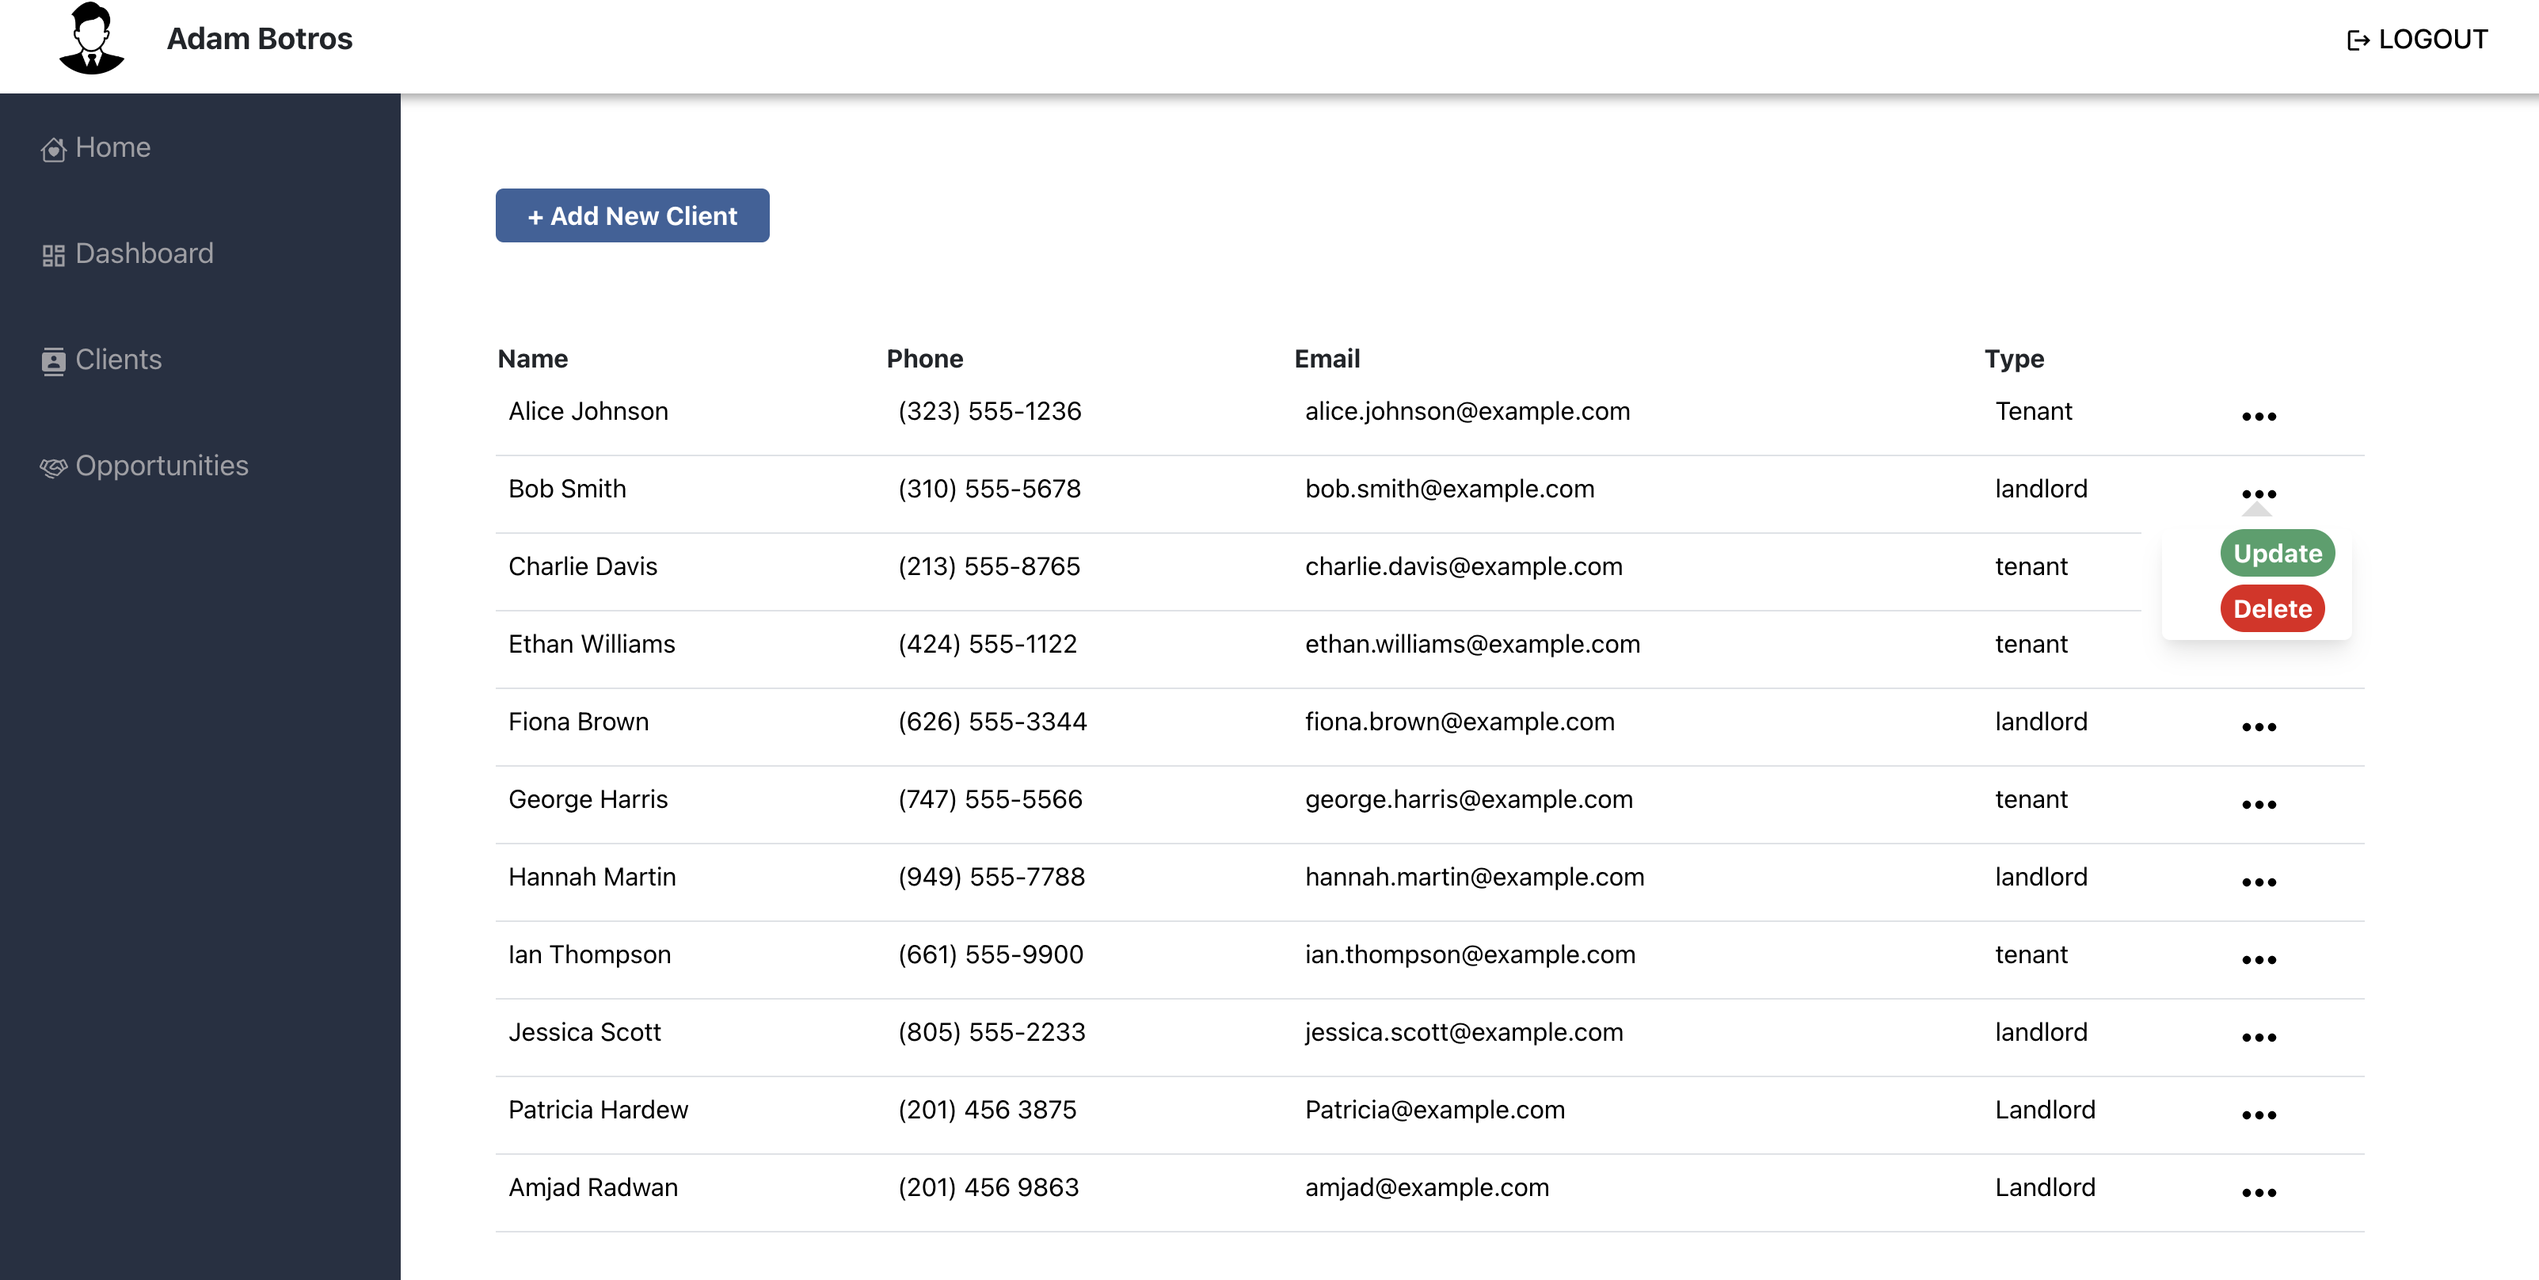
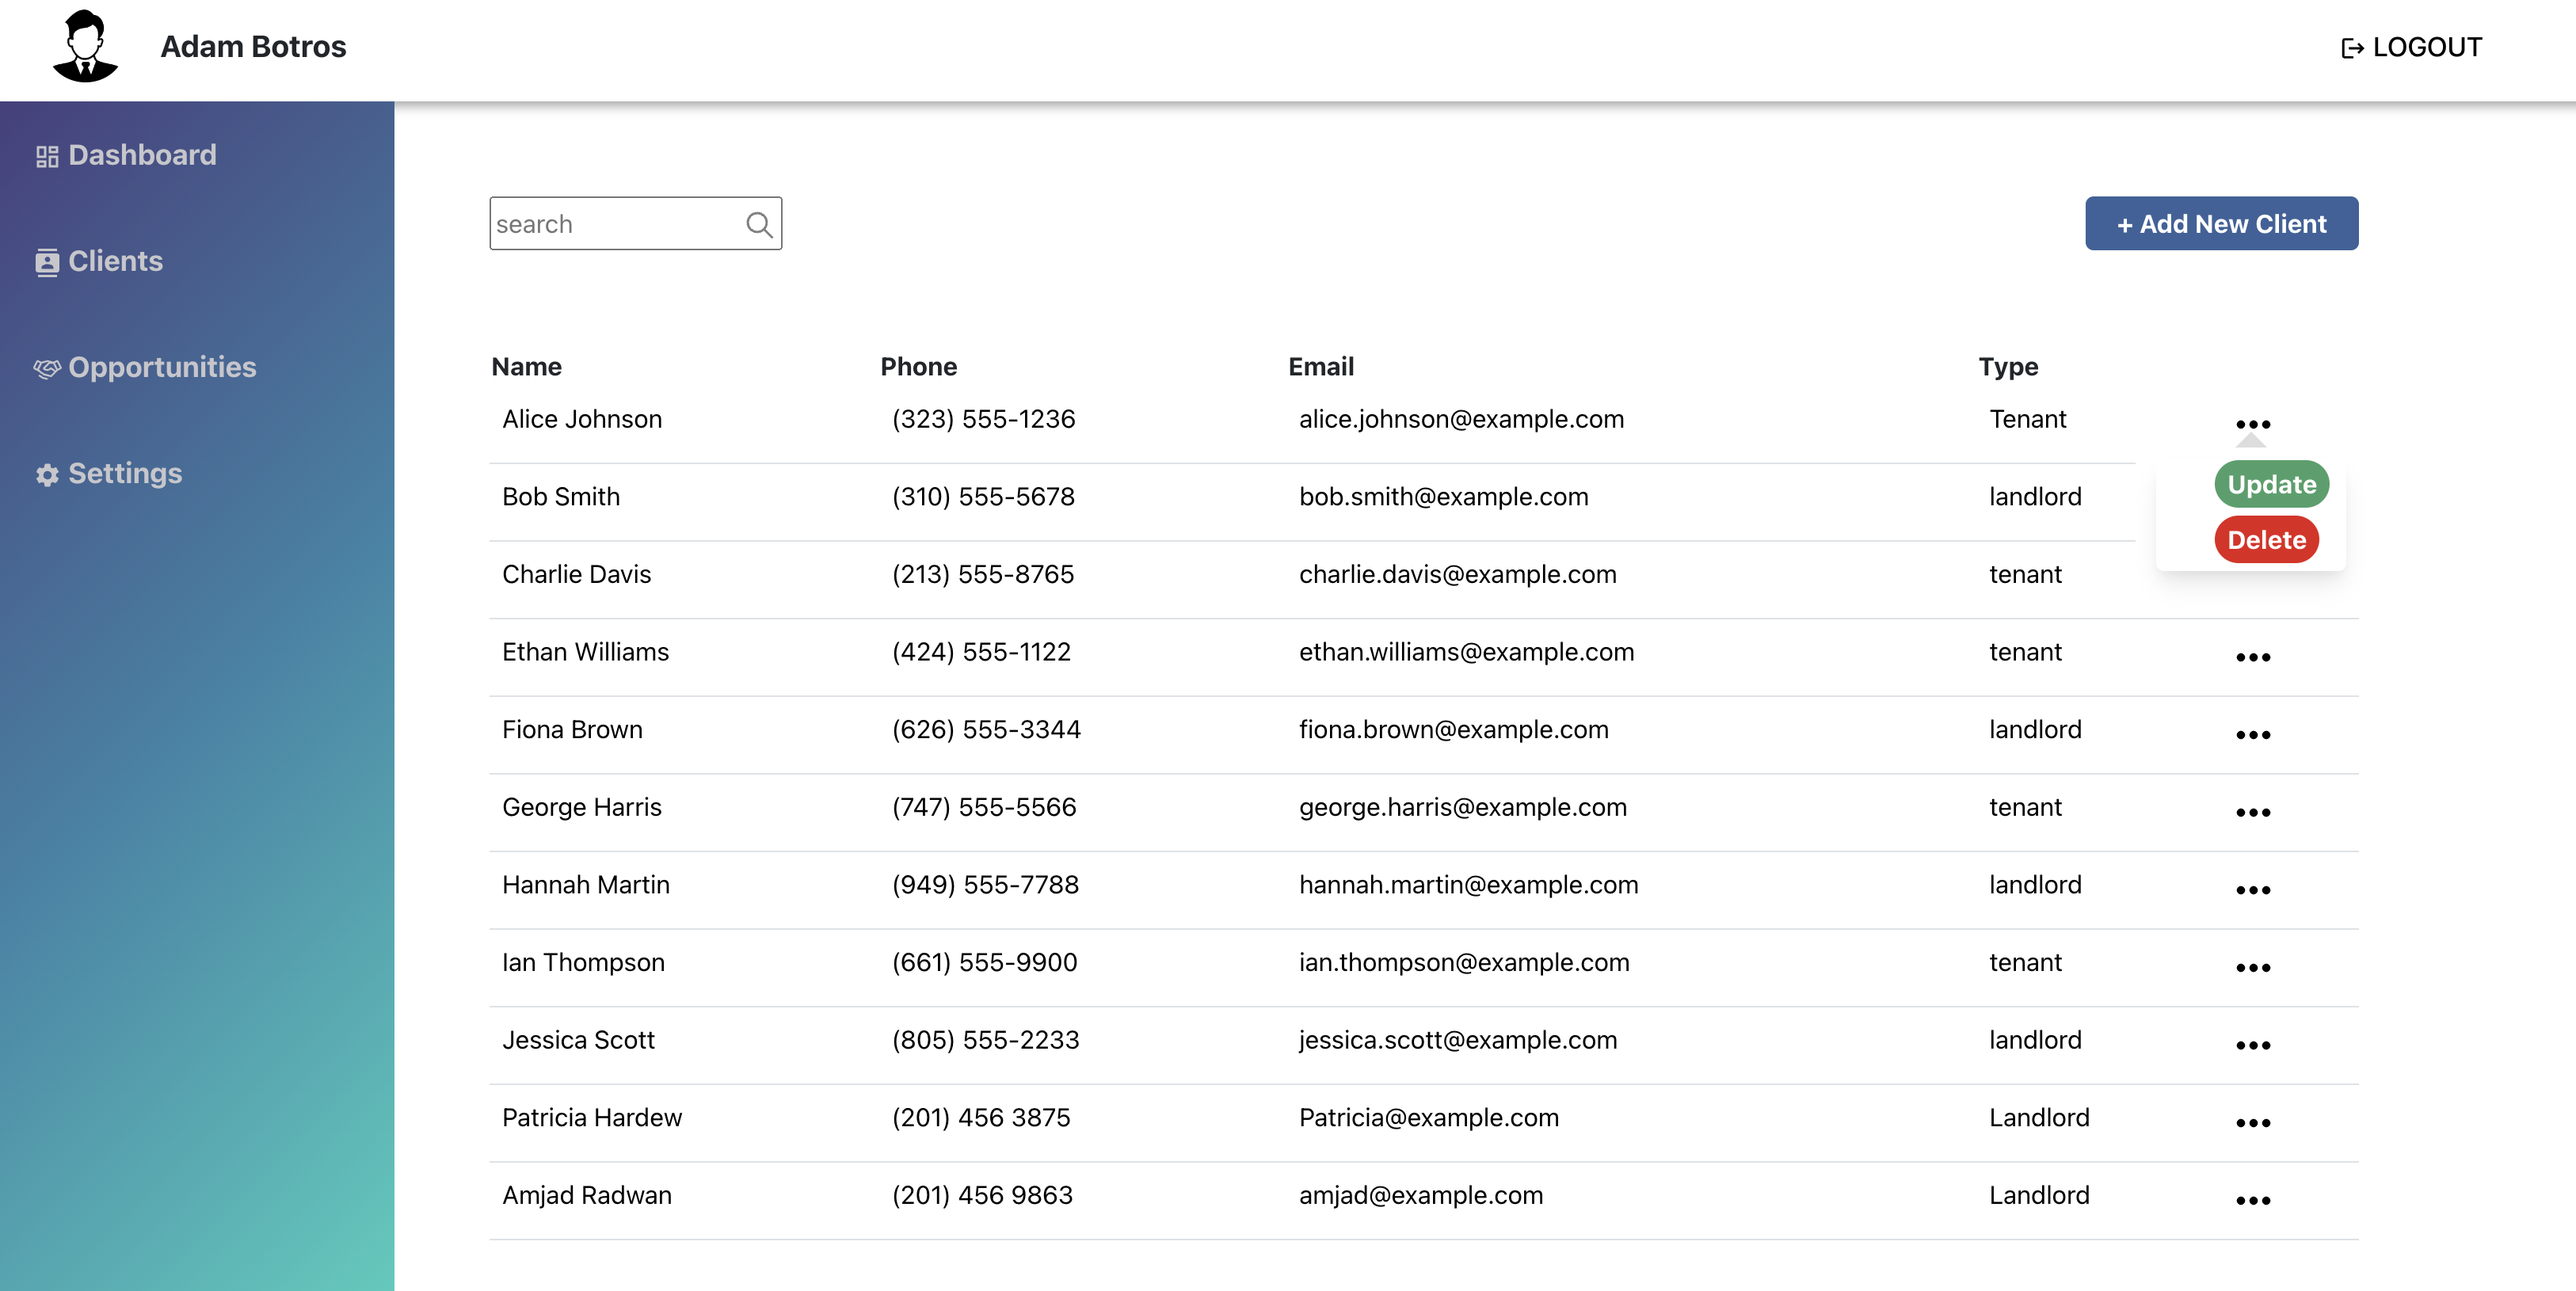
userName

diff --git a/frontend/frontend-admin/src/pages/Opportunities.js b/frontend/frontend-admin/src/pages/Opportunities.js
@@ -1,5 +1,6 @@
 import { useContext, useState } from "react";
 import { ListingContext } from "../App";
+import { IoIosSearch } from "react-icons/io";
 
 import Nav from "../components/Nav";
 import Sidebar from "../components/Sidebar";
@@ -17,21 +18,52 @@ function Opportunities() {
   const [showEditModal, setShowEditModal] = useState(false);
   const [openDropdown, setOpenDropdown] = useState(null);
 
+  // State to manage sesarch input
+  const [search, setSearch] = useState("");
+
   const style = {
     fontSize: "2em",
     cursor: "pointer",
   };
+
+  // search icon styling
+  const magnifire = {
+    position: "absolute",
+    left: "20.5em",
+    fontSize: "1.4em",
+    color: "grey",
+    top: "100px",
+  };
+
+  // Filter the clients array to check if the opportunity's name,address,staus,or tag includes the search term
+  const results = opportunities.filter(
+    (opportunity) =>
+      opportunity.name.toLowerCase().includes(search.toLowerCase()) ||
+      opportunity.address.includes(search) ||
+      opportunity.status.toLowerCase().includes(search.toLowerCase()) ||
+      opportunity.tag.toLowerCase().includes(search.toLowerCase())
+  );
+
   return (
     <>
       <Nav />
       <Sidebar />
       <div className="opportunity">
-        <button
-          className="create-btn"
-          onClick={() => setOpenAddBtn(!openAddBtn)}
-        >
-          + Add Opportunity
-        </button>
+        <div className="search-container">
+          <input
+            type="search"
+            placeholder="search"
+            value={search}
+            onChange={(e) => setSearch(e.target.value)}
+          ></input>
+          <IoIosSearch style={magnifire} />
+          <button
+            className="create-btn"
+            onClick={() => setOpenAddBtn(!openAddBtn)}
+          >
+            + Add Opportunity
+          </button>
+        </div>
         {openAddBtn && (
           <div className="modal-overlay">
             <div className="modal-content">
@@ -57,7 +89,7 @@ function Opportunities() {
             <th>Closing Date</th>
           </thead>
           <tbody>
-            {opportunities.map((opportunity, index) => (
+            {results.map((opportunity, index) => (
               <tr className="" key={opportunity._id}>
                 <td className="">{opportunity.name}</td>
                 <td className="">{opportunity.address}</td>

diff --git a/frontend/frontend-admin/src/components/Sidebar.js b/frontend/frontend-admin/src/components/Sidebar.js
@@ -2,20 +2,13 @@ import React from "react";
 
 import { Link } from "react-router-dom";
 
-import { BsHouseHeart } from "react-icons/bs";
-import { MdOutlineDashboard, MdContacts } from "react-icons/md";
+import { MdOutlineDashboard, MdContacts, MdSettings } from "react-icons/md";
 import { PiHandshake } from "react-icons/pi";
 
 function Sidebar() {
   return (
     <div className="sidebar">
       <ul>
-        <Link key="home" to="" className="sidebarLink">
-          <li className="sidebarListItem">
-            {" "}
-            <BsHouseHeart /> Home
-          </li>
-        </Link>
         <Link key="dashboard" to="/dashboard" className="sidebarLink">
           <li className="sidebarListItem">
             {" "}
@@ -32,6 +25,12 @@ function Sidebar() {
           <li className="sidebarListItem">
             {" "}
             <PiHandshake /> Opportunities
+          </li>
+        </Link>
+        <Link key="home" to="" className="sidebarLink">
+          <li className="sidebarListItem">
+            {" "}
+            <MdSettings /> Settings
           </li>
         </Link>
       </ul>

diff --git a/frontend/frontend-admin/src/pages/Clients.js b/frontend/frontend-admin/src/pages/Clients.js
@@ -23,7 +23,7 @@ function Clients() {
 
   // State to manage visibility of the update client info form
   const [showEditModal, setShowEditModal] = useState(false);
-
+  // State to manage sesarch input
   const [search, setSearch] = useState("");
 
   //3 dot icon styling
@@ -31,6 +31,7 @@ function Clients() {
     fontSize: "2em",
     cursor: "pointer",
   };
+  // search icon styling
   const magnifire = {
     position: "absolute",
     left: "22.3em",
@@ -39,6 +40,7 @@ function Clients() {
     top: "137px",
   };
 
+  // Filter the clients array to check if the client's name,email,phone ,or tag includes the search term
   const results = clients.filter(
     (client) =>
       client.name.toLowerCase().includes(search.toLowerCase()) ||

diff --git a/frontend/frontend-admin/src/components/Addclient.js b/frontend/frontend-admin/src/components/Addclient.js
@@ -26,7 +26,7 @@ function AddClient({ close }) {
     const res = await axios.post("http://localhost:3000/client", addClient);
     console.log(res);
     // Axios Req -> POST (formData => {state})
-    setClients(() => [...clients, res.client]);
+    setClients(() => [...clients, res.data.client]);
     // This adds the new contact to the rest of existing contacts in db.
     setAddClient({
       name: "",
@@ -35,7 +35,7 @@ function AddClient({ close }) {
       tag: "",
     });
     // to reset the form
-    close();
+    close(); //close form after submit
   };
 
   return (

diff --git a/frontend/frontend-admin/src/pages/Login.js b/frontend/frontend-admin/src/pages/Login.js
@@ -37,6 +37,7 @@ function Login() {
     console.log(res.data.user.name);
     navigate("/dashboard");
     setLoggedUser(res.data.user.name);
+    localStorage.setItem("loggedUser", res.data.user.name); // store the user name in the browser after a successful login: localStorage("key",value)
     setLogUser({
       email: "",
       password: "",

diff --git a/frontend/frontend-admin/src/App.js b/frontend/frontend-admin/src/App.js
@@ -47,7 +47,9 @@ function App() {
   });
 
   // State to manage the logged in user information
-  const [loggedUser, setLoggedUser] = useState(null);
+  const [loggedUser, setLoggedUser] = useState(
+    localStorage.getItem("loggedUser")
+  );
 
   // console.log(rentedThisYear);
 

diff --git a/frontend/frontend-admin/src/components/Nav.js b/frontend/frontend-admin/src/components/Nav.js
@@ -16,6 +16,7 @@ function Nav() {
 
     const res = await axios.post("http://localhost:3000/logout");
     console.log(res);
+    localStorage.clear(); //clear all the local storage
     navigate("/logout");
   };
   return (

diff --git a/README.md b/README.md
@@ -6,9 +6,9 @@ A full stack comprehensive Real Estate Management System built with React and No
 
 ![dashboard](image.png)
 
-![new-client](image-1.png)
+![alt text](image-1.png)
 
-![new-opportunity](image-2.png)
+![update-Opportunity](image-2.png)
 
 ## Features
 
